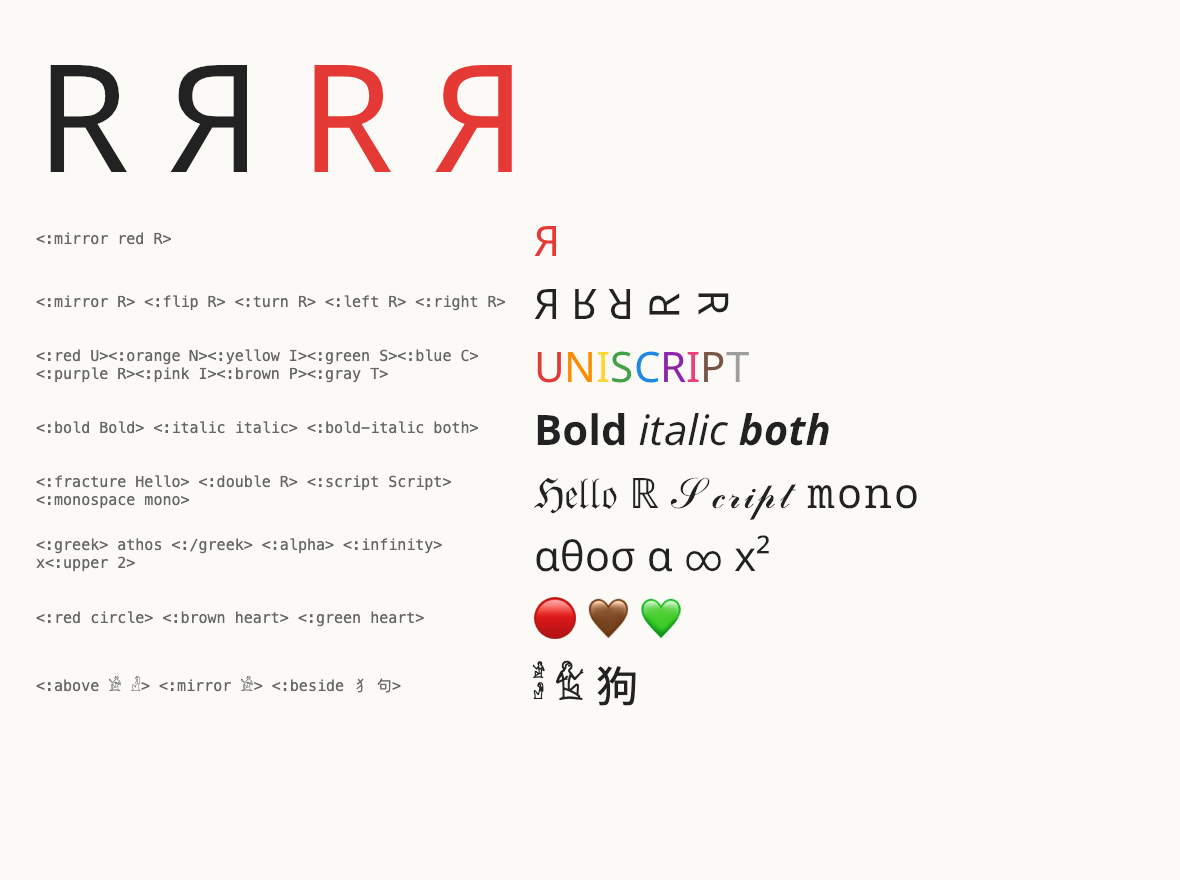
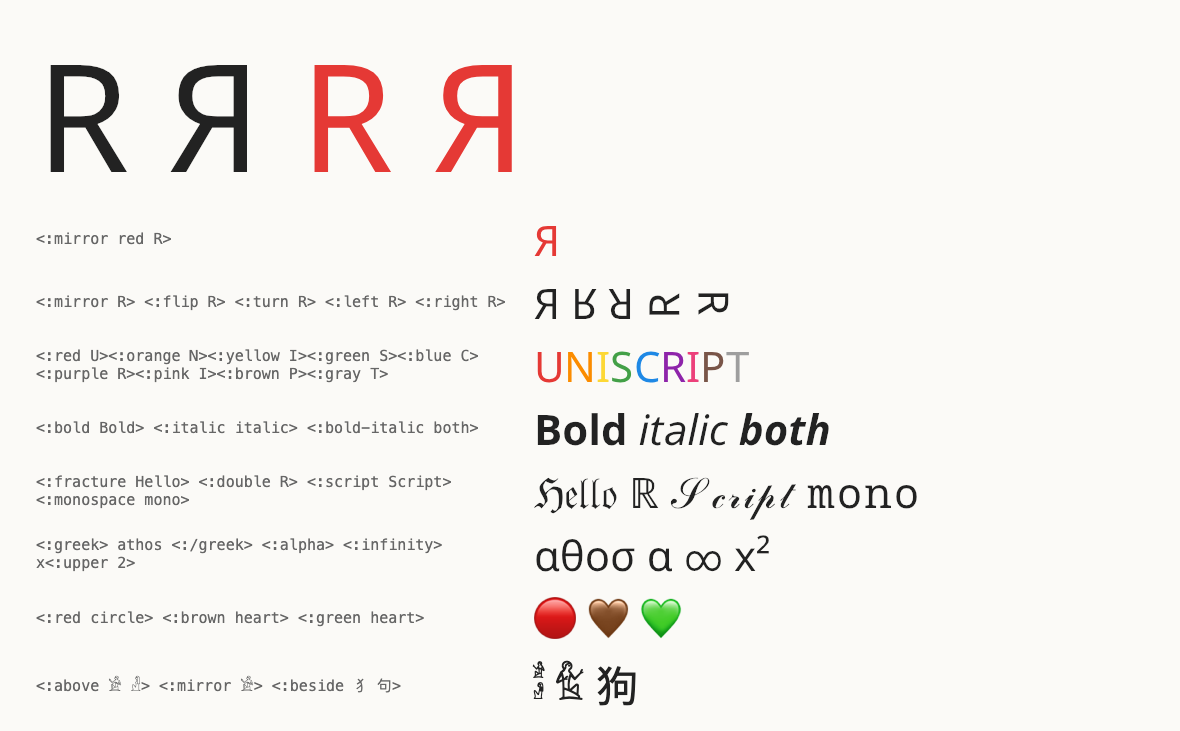
feature(minor): docs/demo.html converts in the browser with the WebAssembly build and has a live editor; make_demo.sh serves it with the installed fonts

diff --git a/docs/demo.html b/docs/demo.html
@@ -1,0 +1,69 @@
+<!doctype html>
+<meta charset="utf-8">
+<title>uniscript demo</title>
+<!-- Converts in the browser with the Rust crate compiled to WebAssembly (wasm/). Serve the repository over HTTP
+     (docs/make_demo.sh does, with the installed fonts under /fonts/), file:// cannot load modules. Fonts: README.md. -->
+<style>
+@font-face{font-family:UniscriptSans;src:local("Uniscript Sans"),local("UniscriptSans-Regular"),url("../fonts/UniscriptSans-Regular.ttf")}
+@font-face{font-family:UniscriptCJK;src:local("Uniscript CJK"),local("UniscriptCJK-Regular"),url("../fonts/UniscriptCJK-Regular.otf")}
+@font-face{font-family:Hieroglyphs;src:local("NewGardinerOmni Regular"),local("NewGardinerOmni-Regular"),url("../fonts/NewGardinerOmni2d4.ttf")}
+body{font-family:UniscriptSans,Hieroglyphs,UniscriptCJK,sans-serif;background:#fbfaf7;margin:0;color:#222}
+#examples{padding:28px 36px 12px} #editor,#warnings{margin-inline:36px} .hero{font-size:150px;line-height:1.15;margin:0 0 10px}
+.row{display:flex;gap:28px;align-items:center;margin:6px 0}
+code{font:15px Menlo,monospace;width:470px;color:#666;flex:none} .out{font-size:42px}
+#editor{display:grid;grid-template-columns:1fr auto 1fr;gap:16px;align-items:stretch;margin-top:24px;max-width:1100px}
+textarea,#output{font:18px Menlo,UniscriptSans,Hieroglyphs,UniscriptCJK,monospace;min-height:130px;padding:10px;border:1px solid #ccc;border-radius:6px;background:#fff}
+#output{font-family:UniscriptSans,Hieroglyphs,UniscriptCJK,sans-serif;font-size:32px;white-space:pre-wrap;overflow-wrap:anywhere}
+button{font-size:20px;align-self:center} #warnings{color:#a60;font:14px Menlo,monospace;white-space:pre-line;margin-top:8px}
+</style>
+<div id="examples"><div class="hero" data-uniscript="R <:mirror R> <:red R> <:mirror red R>"></div></div>
+<div id="editor">
+	<textarea id="source" spellcheck="false">&lt;:alpha> &lt;:fracture Hello> &lt;:double R> \:infinity
+&lt;:mirror red R> &lt;:beside 犭 句> &lt;:color #ff8800 angle 90 A></textarea>
+	<button id="reverse" title="Unicode → uniscript">⇄</button>
+	<div id="output"></div>
+</div>
+<div id="warnings"></div>
+<script type="module">
+import init, { convert, toUniscript, metaRuns, html } from "../wasm/uniscript.js";
+
+const EXAMPLES = [
+	"<:mirror red R>",
+	"<:mirror R> <:flip R> <:turn R> <:left R> <:right R>",
+	"<:red U><:orange N><:yellow I><:green S><:blue C><:purple R><:pink I><:brown P><:gray T>",
+	"<:bold Bold> <:italic italic> <:bold-italic both>",
+	"<:fracture Hello> <:double R> <:script Script> <:monospace mono>",
+	"<:greek> athos <:/greek> <:alpha> <:infinity> x<:upper 2>",
+	"<:red circle> <:brown heart> <:green heart>",
+	"<:above 𓀀 𓁐>  <:mirror 𓀀>  <:beside 犭 句>",
+];
+
+const element = (tag, className, text) => Object.assign(document.createElement(tag), { className, textContent: text });
+const unicode = source => convert(source, "lenient").text;
+
+await init();
+const examples = document.getElementById("examples");
+const hero = examples.querySelector(".hero");
+hero.textContent = unicode(hero.dataset.uniscript);
+for (const source of EXAMPLES) {
+	const row = element("div", "row");
+	row.append(element("code", "", source), element("span", "out", unicode(source)));
+	examples.append(row);
+}
+
+const [source, output, warningList] = ["source", "output", "warnings"].map(id => document.getElementById(id));
+function render() {
+	const converted = convert(source.value, "lenient");
+	const { styled, warnings } = metaRuns(converted.text);
+	output.innerHTML = html(styled);
+	output.dataset.text = converted.text;
+	warningList.textContent = [...converted.warnings, ...warnings].map(warning => `${warning.message} at byte ${warning.at}`).join("\n");
+}
+source.addEventListener("input", render);
+document.getElementById("reverse").addEventListener("click", () => {
+	source.value = toUniscript(output.dataset.text);
+	render();
+});
+render();
+document.body.dataset.ready = "true";
+</script>
